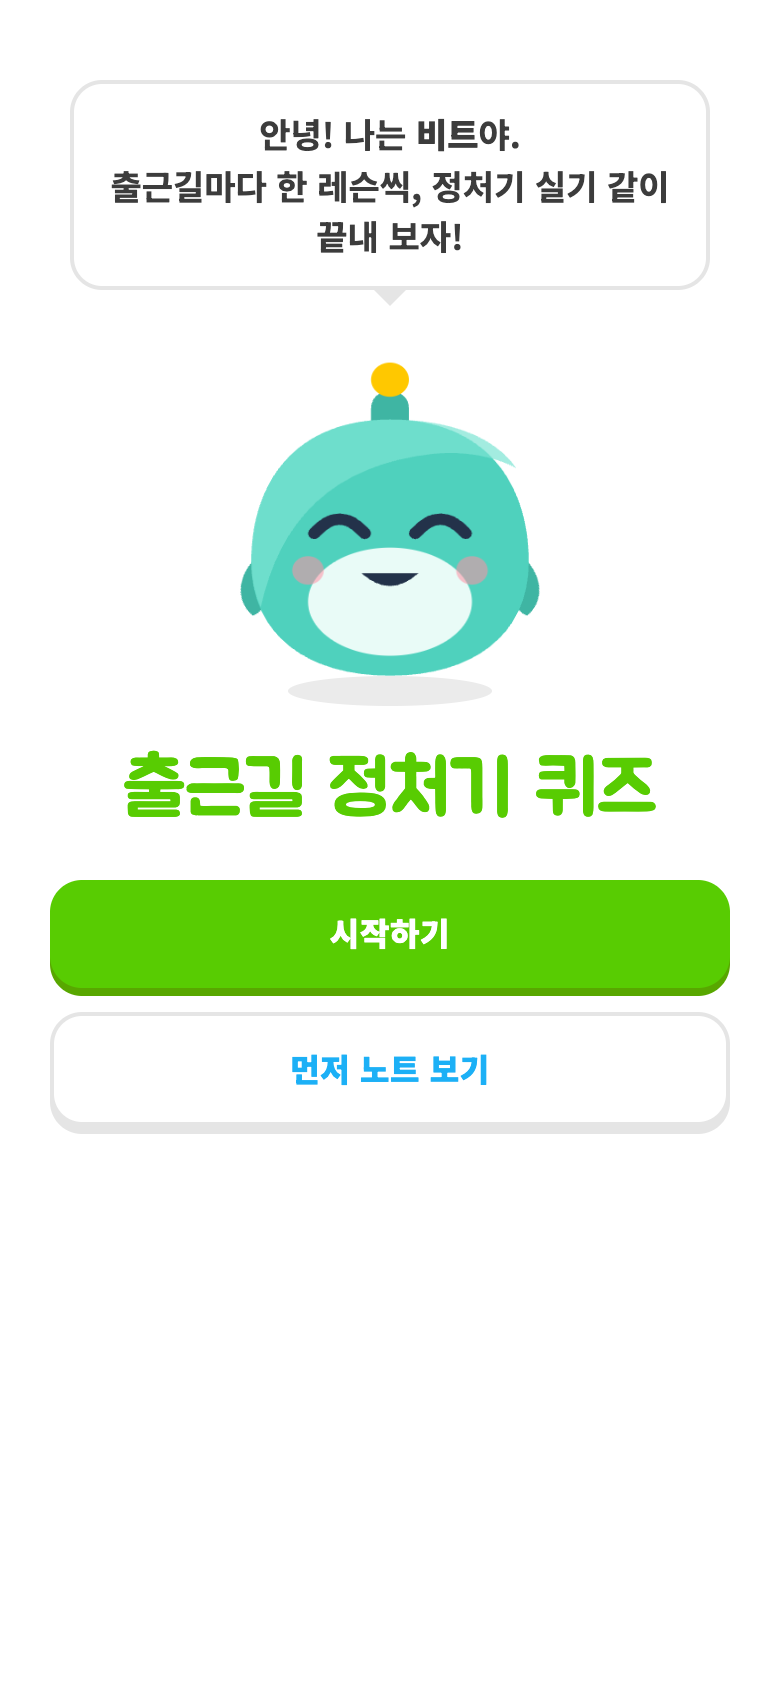
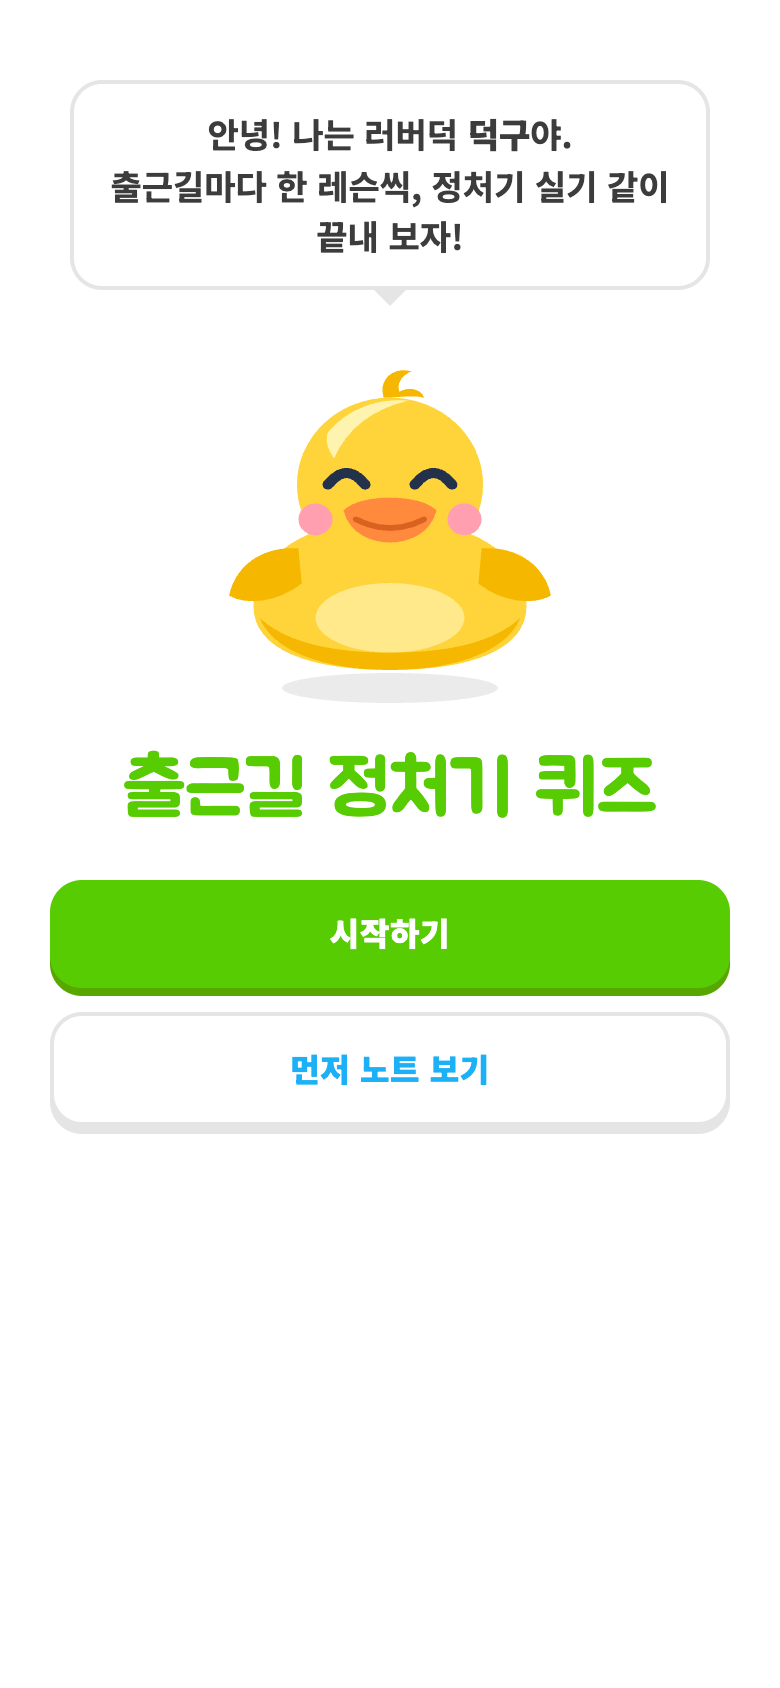
캐릭터를 러버덕 덕구로 교체
- 부위 그림을 scripts/mascot-parts.mjs 한 곳에 두고 Rive 파일과 아이콘이 같이 쓴다
- Rive: happy에 날개 파닥임, sad에 날개 처짐. 날개 회전 방향을 바로잡았다
- 앱 안 SVG(대체 표시)도 덕구로, CSS 날개 방향도 같은 기준으로
- 아이콘은 노란 오리가 잘 보이게 하늘색 배경으로 다시 그림
- README 스크린샷 전부 다시 찍음

Changed region(s): [[0.2769, 0.2156, 0.7077, 0.4005], [0.2769, 0.0616, 0.7385, 0.0924]]

diff --git a/src/components/Mascot.tsx b/src/components/Mascot.tsx
@@ -3,9 +3,9 @@ import { createVNode } from '../lib';
 export type Mood = 'idle' | 'happy' | 'sad' | 'cheer';
 
 /**
- * 캐릭터 "비트".
- * SVG(+CSS 애니메이션)를 기본으로 그리고, 위에 얹은 캔버스에 Rive(public/rive/bit.riv)가 준비되면
- * 그쪽으로 바꿔 보여 준다 (riveMascot.ts). className은 고정하고 표정은 data-mood로만 바꾼다:
+ * 캐릭터 "덕구" (러버덕).
+ * SVG(+CSS 애니메이션)를 기본으로 그리고, 위에 얹은 캔버스에 Rive(public/rive/duck.riv)가 준비되면
+ * 그쪽으로 바꿔 보여 준다 (riveMascot.ts). 부위 좌표는 scripts/mascot-parts.mjs와 같다. className은 고정하고 표정은 data-mood로만 바꾼다:
  * 가상 DOM이 className을 다시 쓰면 Rive가 붙인 rive-ready 표시가 지워지기 때문이다.
  */
 export const Mascot = ({ mood = 'idle' }: { mood?: Mood }) => (
@@ -17,27 +17,34 @@ export const Mascot = ({ mood = 'idle' }: { mood?: Mood }) => (
 
 const MascotSvg = ({ mood }: { mood: Mood }) => (
   <svg className={`mascot ${mood}`} viewBox="0 0 120 124" aria-hidden="true">
-    <ellipse cx="60" cy="119" rx="34" ry="5" fill="#000" opacity=".08" />
+    <ellipse cx="60" cy="118" rx="36" ry="5" fill="#000" opacity=".08" />
     <g className="body">
-      <path className="arm-l" d="M20 70c-10 2-15 10-13 17 4 1 10-4 15-9z" fill="#3FB5A3" />
-      <path className="arm-r" d="M100 70c10 2 15 10 13 17-4 1-10-4-15-9z" fill="#3FB5A3" />
-      <path d="M60 14c-4 0-6 3-6 6v6h12v-6c0-3-2-6-6-6z" fill="#3FB5A3" />
-      <circle cx="60" cy="10" r="6" fill="#FFC800" />
-      <path d="M60 24C30 24 16 46 16 74c0 26 18 40 44 40s44-14 44-40C104 46 90 24 60 24z" fill="#4FD1BD" />
-      <path d="M60 24C30 24 16 46 16 74c0 6 1 11 3 16 6-30 22-50 55-54 10-1 19 1 26 5-7-11-21-17-40-17z" fill="#7BE3D2" opacity=".7" />
-      <ellipse cx="60" cy="88" rx="26" ry="19" fill="#E9FBF7" />
+      <path d="M60 60c-26 0-44 12-44 30 0 15 18 22 44 22s44-7 44-22c0-18-18-30-44-30z" fill="#FFD43B" />
+      <path d="M18 94c4 11 20 18 42 18s38-7 42-18c-8 8-22 12-42 12s-34-4-42-12z" fill="#F5B700" />
+      <ellipse cx="60" cy="94" rx="24" ry="12" fill="#FFE98A" />
+      <circle cx="60" cy="48" r="30" fill="#FFD43B" />
+      <path d="M40 30c6-8 16-12 26-11-12 3-20 10-24 20-2-3-3-6-2-9z" fill="#FFF3B0" />
+      <path d="M58 18c-2-6 3-11 9-9-3 1-5 4-4 7 3-2 7-1 8 2-4-1-8 0-13 0z" fill="#F5B700" />
+      <circle cx="36" cy="60" r="5.5" fill="#FF9FB0" />
+      <circle cx="84" cy="60" r="5.5" fill="#FF9FB0" />
+      <path className="arm-l" d="M30 70c-12 0-20 8-21 18 6 3 16 1 23-6z" fill="#F5B700" />
+      <path className="arm-r" d="M90 70c12 0 20 8 21 18-6 3-16 1-23-6z" fill="#F5B700" />
       <g className="eyes-open">
-        <g className="blink"><ellipse cx="44" cy="62" rx="9" ry="11" fill="#fff" /><ellipse cx="45.5" cy="64" rx="5" ry="6.5" fill="#23324A" /><circle cx="47.5" cy="61" r="2" fill="#fff" /></g>
-        <g className="blink"><ellipse cx="76" cy="62" rx="9" ry="11" fill="#fff" /><ellipse cx="77.5" cy="64" rx="5" ry="6.5" fill="#23324A" /><circle cx="79.5" cy="61" r="2" fill="#fff" /></g>
+        <g className="blink"><ellipse cx="46" cy="46" rx="5.5" ry="7" fill="#23324A" /><circle cx="48" cy="43.5" r="2.2" fill="#fff" /></g>
+        <g className="blink"><ellipse cx="74" cy="46" rx="5.5" ry="7" fill="#23324A" /><circle cx="76" cy="43.5" r="2.2" fill="#fff" /></g>
       </g>
-      <g className="eyes-happy" fill="none" stroke="#23324A" stroke-width="4" stroke-linecap="round">
-        <path d="M36 64q8-10 16 0" /><path d="M68 64q8-10 16 0" />
+      <g className="eyes-happy" fill="none" stroke="#23324A" stroke-width="3.5" stroke-linecap="round">
+        <path d="M40 48q6-8 12 0" /><path d="M68 48q6-8 12 0" />
       </g>
-      <circle cx="34" cy="77" r="5" fill="#FF8FA3" opacity=".55" />
-      <circle cx="86" cy="77" r="5" fill="#FF8FA3" opacity=".55" />
-      <path className="mouth-smile" d="M51 78q9 9 18 0" fill="#23324A" />
-      <path className="mouth-sad" d="M52 83q8-7 16 0" fill="none" stroke="#23324A" stroke-width="3.5" stroke-linecap="round" />
-      <path className="tear" d="M38 72q-3 6 0 8 3-2 0-8z" fill="#7CC8FF" />
+      <g className="mouth-smile">
+        <path d="M45 57c5-6 25-6 30 0-2 8-9 11-15 11s-13-3-15-11z" fill="#FF8A3D" />
+        <path d="M49 60q11 6 22 0" fill="none" stroke="#D9621E" stroke-width="2" stroke-linecap="round" />
+      </g>
+      <g className="mouth-sad">
+        <path d="M45 58c5-6 25-6 30 0-2 8-9 11-15 11s-13-3-15-11z" fill="#FF8A3D" />
+        <path d="M49 64q11-5 22 0" fill="none" stroke="#D9621E" stroke-width="2" stroke-linecap="round" />
+      </g>
+      <path className="tear" d="M38 52q-3 6 0 8 3-2 0-8z" fill="#7CC8FF" />
     </g>
   </svg>
 );

diff --git a/src/styles.css b/src/styles.css
@@ -79,15 +79,17 @@ mark{background:#FFF0A8;color:inherit;padding:0 3px;border-radius:3px}
 .mascot.sad .mouth-smile{display:none}
 .mascot.sad .mouth-sad,.mascot.sad .tear{display:inline}
 .mascot .arm-l,.mascot .arm-r{transform-box:fill-box}
-.mascot .arm-l{transform-origin:100% 20%}.mascot .arm-r{transform-origin:0 20%}
-.mascot.cheer .arm-l{animation:waveL .55s ease-in-out infinite}
-.mascot.cheer .arm-r{animation:waveR .55s ease-in-out infinite}
+.mascot .arm-l{transform-origin:100% 30%}.mascot .arm-r{transform-origin:0 30%}
+.mascot.cheer .arm-l,.mascot.happy .arm-l{animation:waveL .55s ease-in-out infinite}
+.mascot.sad .arm-l{transform:rotate(-20deg);transition:transform .3s}
+.mascot.sad .arm-r{transform:rotate(20deg);transition:transform .3s}
+.mascot.cheer .arm-r,.mascot.happy .arm-r{animation:waveR .55s ease-in-out infinite}
 .mascot .blink{animation:blink 4s infinite;transform-box:fill-box;transform-origin:center}
 @keyframes breathe{50%{transform:scale(1.03,.97)}}
 @keyframes hop{0%,100%{transform:translateY(0) scale(1)}30%{transform:translateY(-16px) scale(.96,1.05)}60%{transform:translateY(0) scale(1.06,.94)}}
 @keyframes droop{to{transform:translateY(4px) scale(1.04,.94)}}
-@keyframes waveL{50%{transform:rotate(-38deg)}}
-@keyframes waveR{50%{transform:rotate(38deg)}}
+@keyframes waveL{50%{transform:rotate(38deg)}}
+@keyframes waveR{50%{transform:rotate(-38deg)}}
 @keyframes blink{0%,94%,100%{transform:scaleY(1)}97%{transform:scaleY(.1)}}
 
 /* intro */

diff --git a/src/components/riveMascot.ts b/src/components/riveMascot.ts
@@ -1,19 +1,19 @@
 /**
- * 캐릭터 비트를 Rive(public/rive/bit.riv)로 움직인다.
+ * 캐릭터 덕구를 Rive(public/rive/duck.riv)로 움직인다.
  *
  * Mascot 컴포넌트는 SVG를 그리고 그 위에 빈 <canvas>를 얹어 둔다. 렌더가 끝날 때마다 여기서
  * 새로 생긴 캔버스에 Rive를 붙이고, data-mood가 바뀌면 상태 머신 입력을 당긴다.
  * Rive가 준비되기 전이나 불러오지 못하면 SVG 캐릭터(CSS 애니메이션)가 그대로 보인다.
  *
- * 상태 머신 "Bit": happy·sad 트리거, cheer 불(bool)
+ * 상태 머신 "Mascot": happy·sad 트리거, cheer 불(bool)
  */
 import type { Rive as RiveInstance } from '@rive-app/canvas-lite';
 import type { Mood } from './Mascot';
 
 type RiveModule = typeof import('@rive-app/canvas-lite');
 
-const SRC = `${import.meta.env.BASE_URL}rive/bit.riv`;
-const STATE_MACHINE = 'Bit';
+const SRC = `${import.meta.env.BASE_URL}rive/duck.riv`;
+const STATE_MACHINE = 'Mascot';
 
 let runtime: Promise<RiveModule | null> | null = null;
 const instances = new Map<HTMLElement, { rive: RiveInstance; mood: Mood | null; ready: boolean }>();

diff --git a/public/sw.js b/public/sw.js
@@ -2,7 +2,7 @@
 // 페이지(HTML)는 네트워크 우선: 온라인이면 항상 최신, 오프라인이면 저장본.
 // SPA라 /lesson/... 같은 주소도 오프라인에서는 저장해 둔 첫 화면(./)을 돌려준다.
 // 아이콘·폰트 같은 나머지는 저장본을 먼저 쓰고 뒤에서 새로 받아 둠.
-const CACHE = 'jcq-v6';
+const CACHE = 'jcq-v7';
 const SHELL = ['./', './notes.html', './manifest.webmanifest',
   './icons/icon-192.png', './icons/icon-512.png', './icons/maskable-512.png',
   './icons/apple-touch-icon.png', './icons/favicon-32.png'];

diff --git a/src/pages/IntroPage.tsx b/src/pages/IntroPage.tsx
@@ -11,7 +11,7 @@ const start = () => {
 export const IntroPage = () => (
   <section className="screen">
     <div className="col intro">
-      <div className="bubble down">안녕! 나는 <b>비트</b>야.<br />출근길마다 한 레슨씩, 정처기 실기 같이 끝내 보자!</div>
+      <div className="bubble down">안녕! 나는 러버덕 <b>덕구</b>야.<br />출근길마다 한 레슨씩, 정처기 실기 같이 끝내 보자!</div>
       <div className="m"><Mascot mood="cheer" /></div>
       <h1>출근길 정처기 퀴즈</h1>
       <div className="actions">
